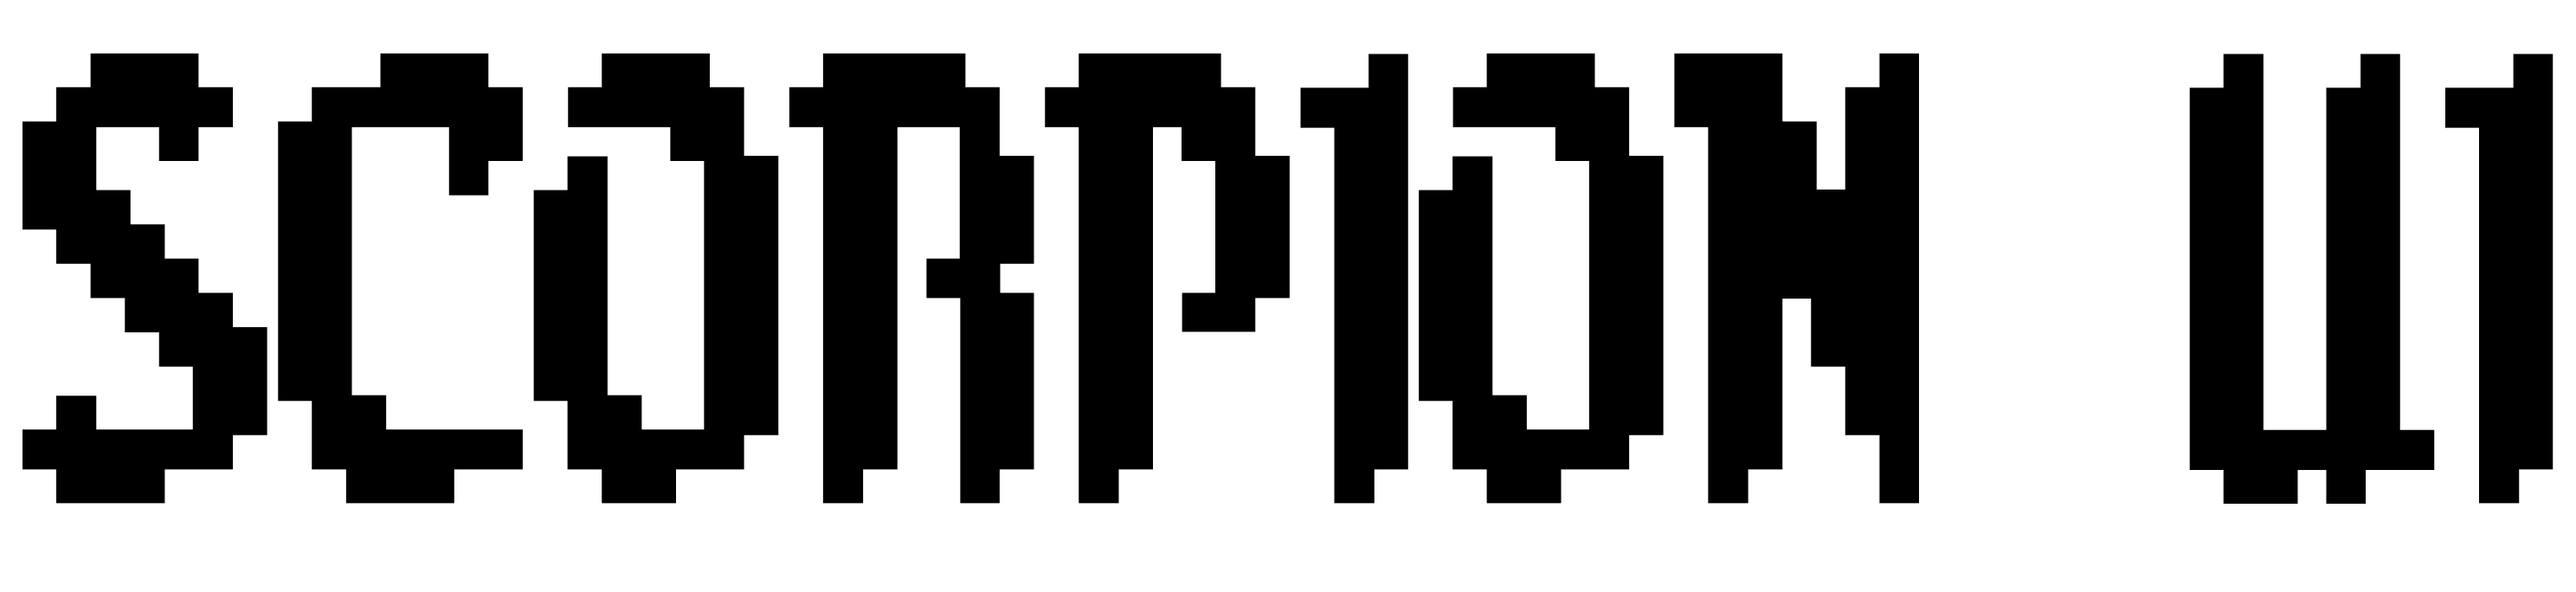
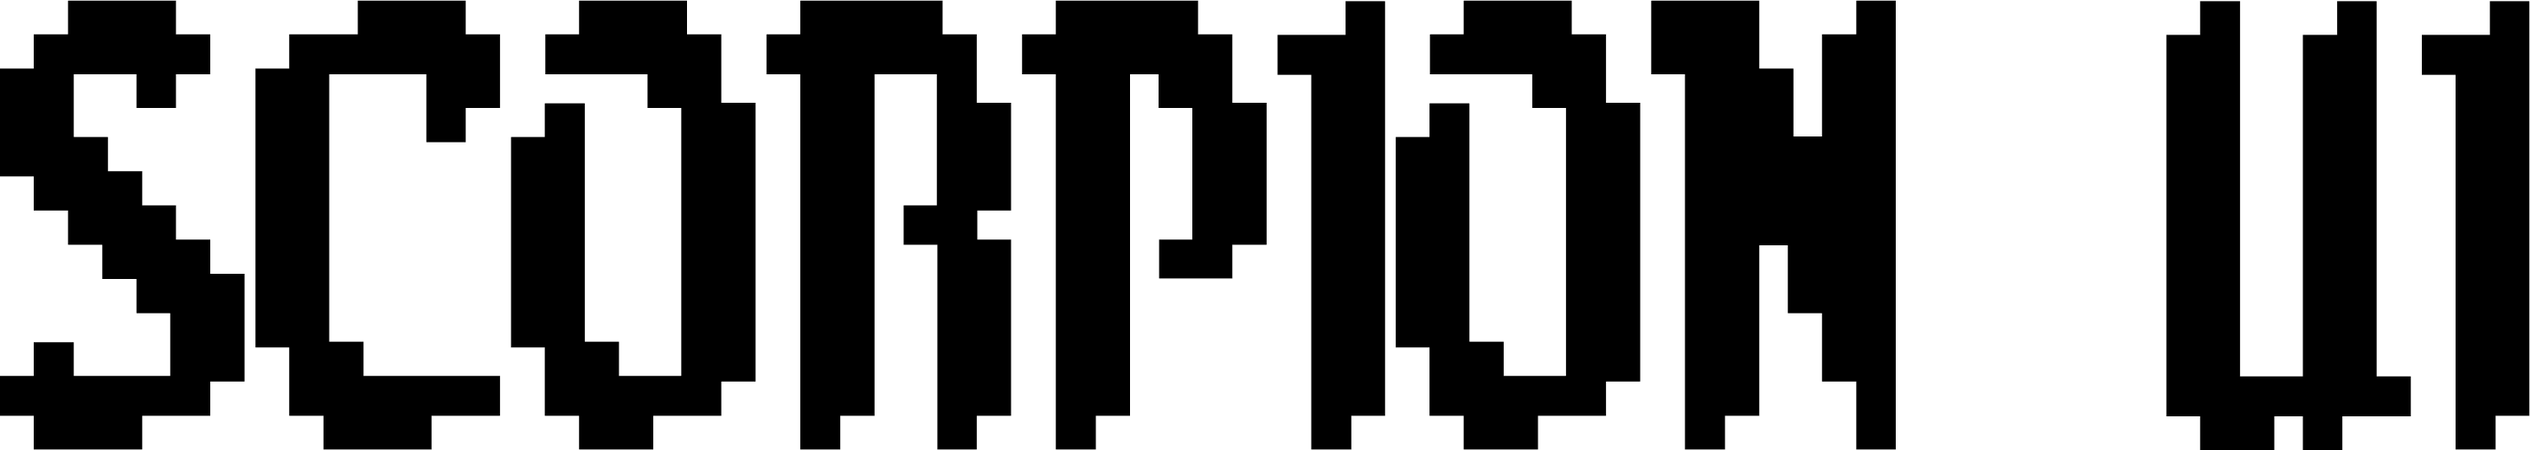
Update assets and home page with new torch image

Changed region(s): [[0.0, 0.0, 0.7469, 1.0], [0.8403, 0.0, 1.0, 1.0], [0.4357, 0.4914, 0.4979, 0.6449]]

diff --git a/src/pages/Home.tsx b/src/pages/Home.tsx
@@ -16,34 +16,51 @@ export default function Home() {
   const [isModalOpen, setIsModalOpen] = useState(false);
   return (
     <div className="container mx-auto pb-5 lg:pb-20">
-        {/* Hero Section - Graphic with smaller margins for optical alignment */}
-        <section className="mb-6 mx-3 lg:mx-6 mt-5 lg:mt-10">
+        {/* Hero Section - Unified Responsive Logo Lockup */}
+        <section className="mb-10 mt-5 lg:mt-10">
           {/* 
-            Scorpion UI Graphic 3b:
-            - Hero graphic with no animation
-            - 40px margin on top, left, and right (mx-10 mt-10 = 40px)
-            - Responsive and scales with viewport
-            - Light mode: sepia-900 (#2B2718 - dark warm)
-            - Dark mode: sepia-50 (#FDFCFB - light warm)
+            Hero Layout - All Elements Scale Together as ONE UNIT:
+            - Container has responsive height (viewport-based: 15vh mobile, 20vh desktop)
+            - ALL THREE elements share EXACT SAME HEIGHT (h-full)
+            - Each element's width determined by its aspect ratio
+            - Torches: aspect-[304/721] (narrow, tall)
+            - Scorpion: aspect-[2924/521] (wide, short)
+            - justify-between: Pushes torches to left/right edges, scorpion fills middle
+            - No gap: All three elements touch, creating seamless edge-to-edge layout
+            - As viewport changes, container height changes, all three scale proportionally together
+            - Result: Torches at edges, scorpion centered, all scaling together
           */}
-          <div className="relative w-full">
-            {/* Light mode version - sepia-900 tint */}
+          <div className="flex items-center justify-between w-full h-[15vh] lg:h-[20vh]">
+            {/* Left Torch - Height fills container, width determined by 304:721 ratio */}
+            <img 
+              src={ASSETS.torch001}
+              alt="Torch"
+              className="h-full w-auto object-contain shrink-0"
+            />
+            
+            {/* Scorpion UI Graphic - Height fills container, width determined by 2924:521 ratio */}
             <img 
               src={ASSETS.scorpionUIGraphic3b}
               alt="Scorpion UI"
-              className="w-full block dark:hidden"
+              className="h-full w-auto object-contain block dark:hidden"
               style={{
                 filter: 'brightness(0) saturate(100%) invert(10%) sepia(21%) saturate(939%) hue-rotate(344deg) brightness(94%) contrast(91%)'
               }}
             />
-            {/* Dark mode version - sepia-50 tint */}
             <img 
               src={ASSETS.scorpionUIGraphic3b}
               alt="Scorpion UI"
-              className="w-full block hidden dark:block"
+              className="h-full w-auto object-contain block hidden dark:block"
               style={{
                 filter: 'brightness(0) saturate(100%) invert(99%) sepia(7%) saturate(221%) hue-rotate(328deg) brightness(104%) contrast(96%)'
               }}
+            />
+            
+            {/* Right Torch - Height fills container, width determined by 304:721 ratio */}
+            <img 
+              src={ASSETS.torch001}
+              alt="Torch"
+              className="h-full w-auto object-contain shrink-0"
             />
           </div>
         </section>

diff --git a/src/lib/assets.ts b/src/lib/assets.ts
@@ -25,6 +25,9 @@ export const ASSETS = {
   scorpionUIGraphic3b: asset('/scorpion-ui-graphic-3b.png'),
   scorpionFavicon: asset('/scorpion-favicon.svg'),
   
+  // Torch graphic
+  torch001: asset('/torch-001.png'),
+  
   // Avatar images
   avatar8bit: asset('/avatar_8bit.png'),
   avatarProfile2: asset('/avatar-profile-2.png'),
